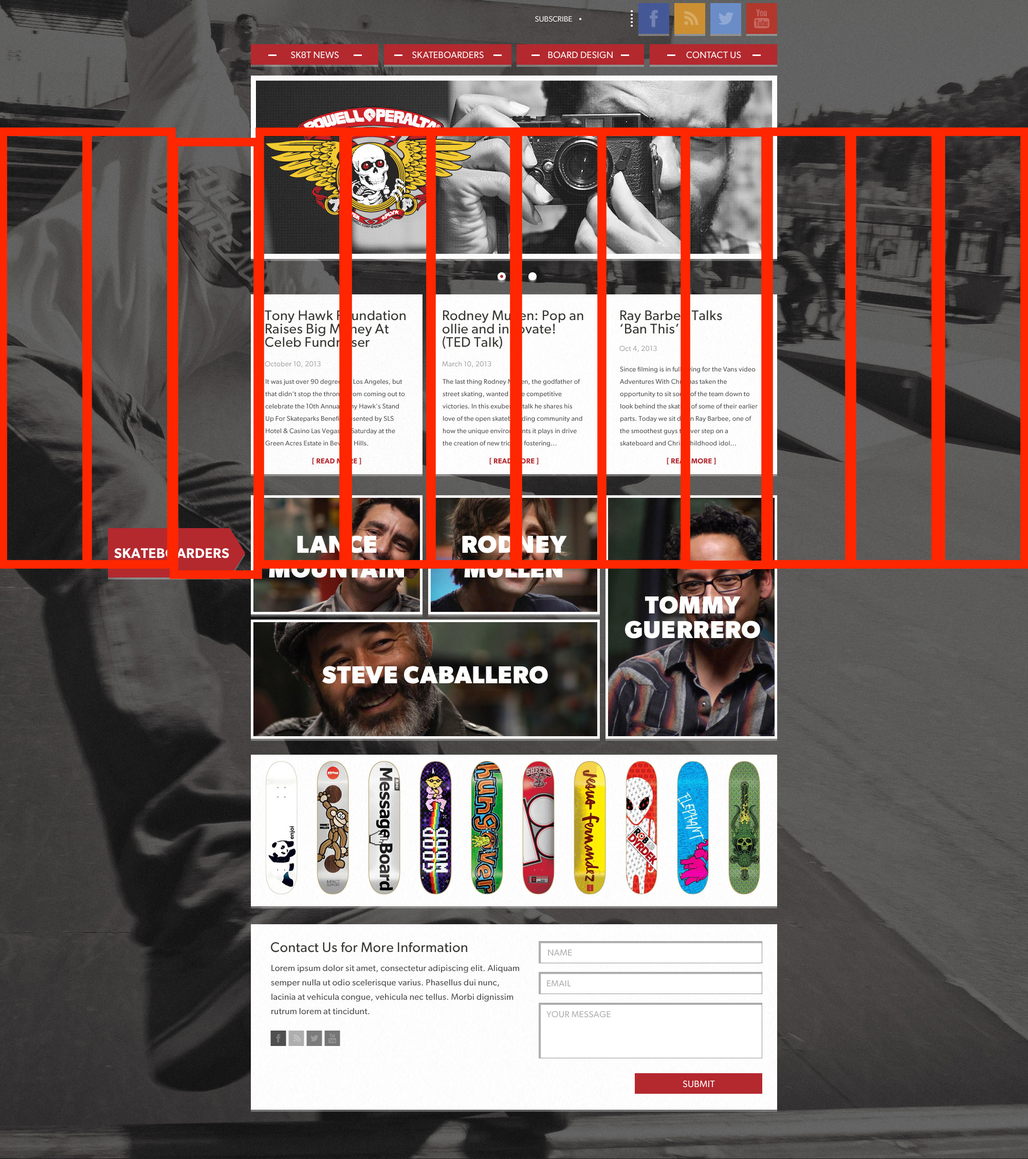
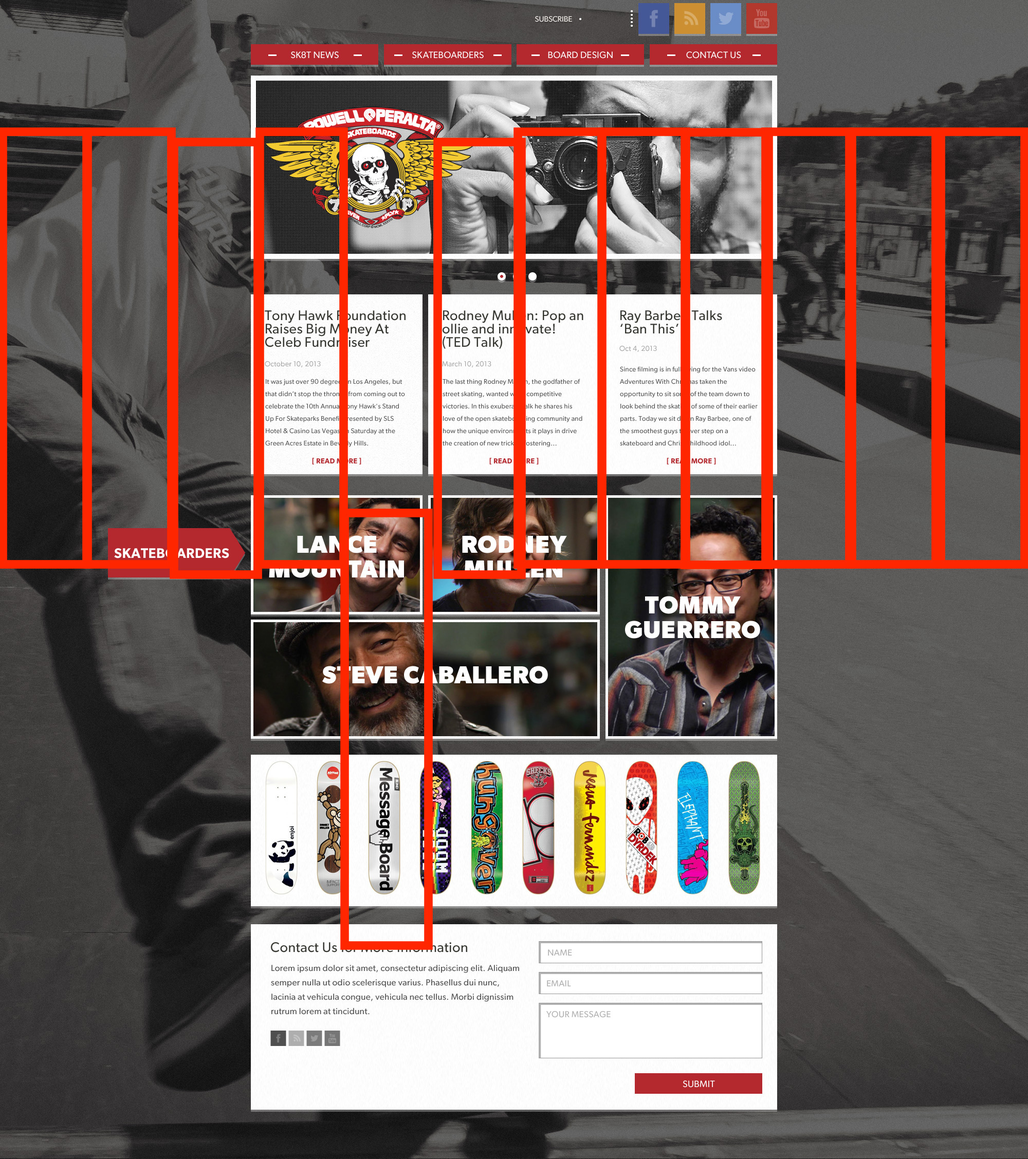
Probing around bootstrap

Changed region(s): [[0.31, 0.0931, 0.527, 0.8378]]

diff --git a/index.html b/index.html
@@ -10,8 +10,8 @@
   <body>
 
     <div class="container">
-        <div class="col-md-6 col-md-offset-3">
-          <div class="row social-box col-md-offset-6">
+        <div class="col-lg-6 col-lg-offset-3">
+          <div class="row social-box col-lg-offset-6">
             <a href="#">Subscribe</a>
             <a href="#">Facebook img</a>
             <a href="#">Blog? img</a>
@@ -20,53 +20,53 @@
           </div>
           <div class="row nav-bar">
             <ul>
-              <li class="col-md-2"><a href="#">SK8T News</a></li>
-              <li class="col-md-2"><a href="#">Skateboarders</a></li>
-              <li class="col-md-2"><a href="#">Board Design</a></li>
-              <li class="col-md-2"><a href="#">Contact Us</a></li>
+              <li class="col-lg-2"><a href="#">- SK8T NEWS -</a></li>
+              <li class="col-lg-2"><a href="#">- SKATEBOARDERS -</a></li>
+              <li class="col-lg-2"><a href="#">- BOARD DESIGN -</a></li>
+              <li class="col-lg-2"><a href="#">- CONTACT US -</a></li>
             </ul>
           </div>
           <div class="row scrolling-header">
-            <a href="#"><img src="" alt="">Clickable image</a>
+            <a href="#"><img src="/Users/Dylan/Documents/code/2.2-sass-design/skateboard-images/top-image.png">Clickable image</a>
           </div>
           <div class="row scrolling-head-select">
             <a href="#">Whatever can be used as the dots</a>
           </div>
           <div class="row top-articles">
             <ul class="article-previews">
-              <li class="article-1 col-md-3">
-                <h1>Tony Hawk Foundation</h1>
-                <span class="date-added-1"></span>
-                <p>article snippet</p>
+              <li class="article-1 col-lg-3">
+                <h1>Tony Hawk Foundation Raises Big Money At Celeb Fundraiser</h1>
+                <span class="date-added-1">October 10, 2013</span>
+                <p>Lorem ipsum dolor sit amet, consectetur adipisicing elit, sed do eiusmod tempor incididunt ut labore et dolore magna aliqua. Ut enim ad minim veniam, quis nostrud exercitation ullamco laboris nisi ut aliquip ex ea commodo consequat.</p>
                 <a href="#">READ MORE link to article</a>
               </li>
-                <li class="article-2 col-md-3">
-                <h1>Rodney Mullin Ollie TEDtalk</h1>
-                <span class="date-added-2"></span>
-                <p>article snippet</p>
+                <li class="article-2 col-lg-3">
+                <h1>Rodney Mullin: Pop an ollie and innovate! (TED Talk)</h1>
+                <span class="date-added-2">March 10, 2013</span>
+                <p>Lorem ipsum dolor sit amet, consectetur adipisicing elit, sed do eiusmod tempor incididunt ut labore et dolore magna aliqua. Ut enim ad minim veniam, quis nostrud exercitation ullamco laboris nisi ut aliquip ex ea commodo consequat.</p>
                 <a href="#">READ MORE link to article</a>
               </li>
-              <li class="article-3 col-md-3">
-                <h1>Ray Barbee talks</h1>
-                <span class="date-added-3"></span>
-                <p>article snippet</p>
+              <li class="article-3 col-lg-3">
+                <h1>Ray Barbee Talks 'Ban This'</h1>
+                <span class="date-added-3">October 4th, 2013</span>
+                <p>Lorem ipsum dolor sit amet, consectetur adipisicing elit, sed do eiusmod tempor incididunt ut labore et dolore magna aliqua. Ut enim ad minim veniam, quis nostrud exercitation ullamco laboris nisi ut aliquip ex ea commodo consequat.</p>
                 <a href="#">READ MORE link to article</a>
               </li>
             </ul>
           </div>
           <div class="row skateboarders">
             <ul>
-              <li class="col-md-4"><a href="#">Lance Mountain</a></li>
-              <li class="col-md-4"><a href="#">Rodney Mullin</a></li>
-              <li class="col-md-4"><a href="#">Tommy Guerrero</a></li>
-              <li class="col-md-6"><a href="#">Steve Caballero</a></li>
+              <li class="lance col-lg-4"><img src="/Users/Dylan/Documents/code/2.2-sass-design/skateboard-images/sk8er-4.png"><a href="">Lance Mountain</a></li>
+              <li class="rodney col-lg-4"><a href="#">Rodney Mullin</a><img src="" alt=""></li>
+              <li class="tommy col-lg-4"><img src="/Users/Dylan/Documents/code/2.2-sass-design/skateboard-images/sk8er-2.png"><a href="#">Tommy Guerrero</a></li>
+              <li class="steve col-lg-6"><a href="#">Steve Caballero</a></li>
             </ul>
           </div>
           <div class="row boards">
             <a href="#"><img src="" alt="">skateboard pic</a>
           </div>
           <div class="row contact-footer">
-            <div class="row left col-md-4">
+            <div class="row left col-lg-4">
               <h1>Contact Us for More Information</h1>
               <p>Lorem ipsum dolor sit amet, consectetur adipisicing elit, sed do eiusmod tempor incididunt ut labore et dolore magna aliqua. Ut enim ad minim veniam, quis nostrud exercitation ullamco laboris nisi ut aliquip ex ea commodo consequat. Duis aute irure dolor in reprehenderit in voluptate velit esse cillum dolore eu fugiat nulla pariatur. Excepteur sint occaecat cupidatat non proident, sunt in culpa qui officia deserunt mollit anim id est laborum.</p>
               <footer>
@@ -76,7 +76,7 @@
                 <a href="#">YouTube img</a>
               </footer>
             </div>
-            <div class="row right col-md-4">
+            <div class="row right col-lg-4">
               <div class="row"><a href="#">Name</a></div>
               <div class="row"><a href="#">Email</a></div>
               <div class="row"><a href="#">Your Message</a></div>

diff --git a/css/styles.css b/css/styles.css
@@ -1,11 +1,42 @@
-.container {
-  background-image: url("/Users/Dylan/Documents/code/2.2-sass-design/skateboard-images/bg.jpg"); }
+body {
+  position: relative;
+  background-image: url("/Users/Dylan/Documents/code/2.2-sass-design/skateboard-images/bg.jpg");
+  width: 2000px; }
 
 /*
 .container{
   background-image: url('/Users/Dylan/Documents/code/2.2-sass-design/skateboard-images/bg.jpg');
 }
 */
+body::before {
+  content: '';
+  display: block;
+  position: absolute;
+  top: 0;
+  bottom: 0;
+  left: 0;
+  right: 0;
+  background-color: rgba(0, 0, 0, 0.5); }
+
+.container {
+  width: 2000px; }
+
+a {
+  text-decoration: none;
+  color: #A2B3BE; }
+
+a:visited {
+  text-decoration: none; }
+
+a:hover {
+  text-decoration: none; }
+
+a:focus {
+  text-decoration: none; }
+
+a:hover, a:active {
+  text-decoration: none; }
+
 .social-box {
   width: 900px;
   height: 74px; }
@@ -15,11 +46,41 @@
     width: 60px; }
 
 .nav-bar li {
-  background-color: red;
+  background-color: #B72631;
   text-align: center;
+  font-weight: bold;
   display: inline-block;
   width: 25%;
   height: 44px;
-  vertical-align: middle; }
+  vertical-align: middle;
+  font-size: 12px; }
+
+.scrolling-header img {
+  max-width: 100%;
+  padding-left: 40px; }
+
+.article-previews li {
+  display: inline-block;
+  position: relative;
+  background-color: white;
+  height: 354px;
+  width: 32%;
+  border-bottom: 4px solid rgba(0, 0, 0, 0.2); }
+.article-previews h1 {
+  font-size: 26px; }
+
+.article-2, .article-3 {
+  margin-left: 12px; }
+
+.skateboarders {
+  display: inline-block; }
+
+.lance {
+  height: 80px;
+  max-width: 33%; }
+
+.tommy {
+  height: 80px;
+  max-width: 33%; }
 
 /*# sourceMappingURL=styles.css.map */

diff --git a/scss/styles.scss b/scss/styles.scss
@@ -1,13 +1,33 @@
-
+$uni-red: #B72631;
 
 body{
+  position: relative;
   background-image: url('/Users/Dylan/Documents/code/2.2-sass-design/skateboard-images/bg.jpg');
+  width: 2000px;
 }
 /*
 .container{
   background-image: url('/Users/Dylan/Documents/code/2.2-sass-design/skateboard-images/bg.jpg');
 }
 */
+
+body::before{
+  content: '';
+  display: block;
+  position: absolute;
+  top: 0;
+  bottom: 0;
+  left: 0;
+  right: 0;
+  background-color: rgba(0, 0, 0, 0.5);
+
+}
+
+.container{
+  width: 2000px;
+}
+
+
 
 a { text-decoration: none; color:#A2B3BE; }
 a:visited { text-decoration: none; }
@@ -30,15 +50,58 @@ a:hover, a:active { text-decoration: none; }
 .nav-bar{
 
   li{
-    background-color: red;
+    background-color: $uni-red;
     text-align: center;
+    font-weight: bold;
     display: inline-block;
     width: 25%;
     height: 44px;
     vertical-align: middle;
     font-size: 12px;
   }
+}
+
+.scrolling-header{
 
 
+  img{
+    max-width: 100%;
+    padding-left: 40px;
+  }
 
+}
+
+.article-previews{
+
+  li{
+    display: inline-block;
+    position: relative;
+    background-color: white;
+    height: 354px;
+    width: 32%;
+    border-bottom: 4px solid rgba(0, 0, 0, 0.2);
+  }
+
+  h1{
+    font-size: 26px;
+  }
+
+}
+
+.article-2,.article-3{
+  margin-left: 12px;
+}
+
+.skateboarders{
+  display: inline-block;
+}
+
+.lance{
+  height: 80px;
+  max-width: 33%;
+}
+
+.tommy{
+  height: 80px;
+  max-width: 33%;
 }
